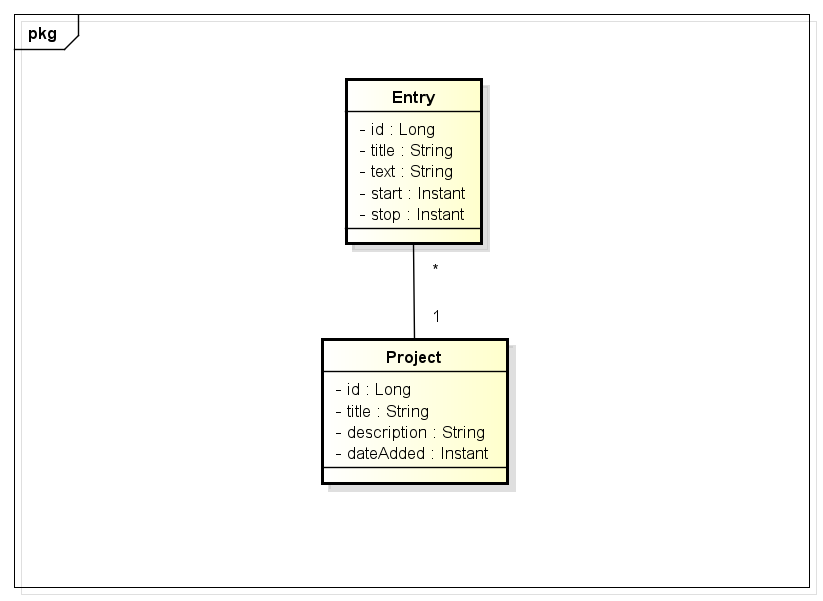
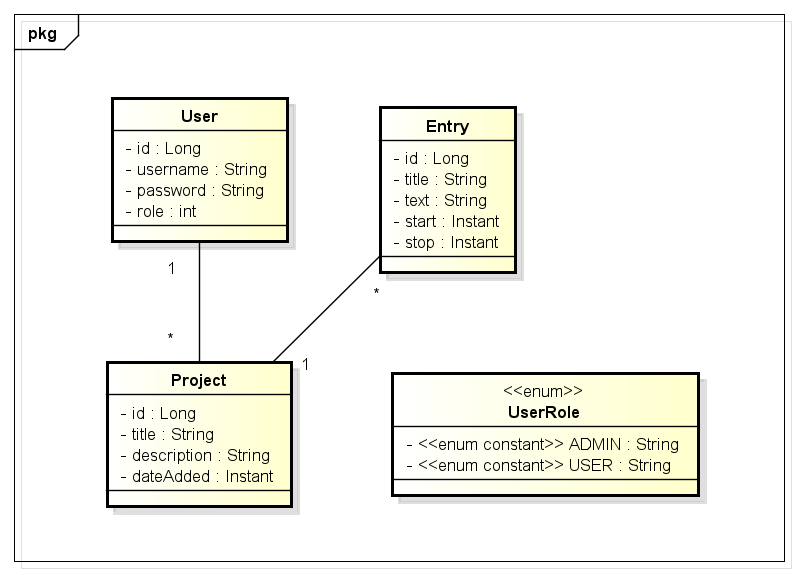
add User entitty, spring security & update class diagram

Changed region(s): [[0.1203, 0.1183, 0.9023, 0.9165], [0.0, 0.0, 0.9925, 0.0887], [0.0301, 0.9757, 0.9925, 1.0]]

diff --git a/src/main/java/com/romm/timemanagement/entities/User.java b/src/main/java/com/romm/timemanagement/entities/User.java
@@ -1,0 +1,70 @@
+package com.romm.timemanagement.entities;
+
+import java.util.Collection;
+import java.util.List;
+
+import org.springframework.security.core.GrantedAuthority;
+import org.springframework.security.core.authority.SimpleGrantedAuthority;
+import org.springframework.security.core.userdetails.UserDetails;
+
+import com.romm.timemanagement.enums.UserRole;
+
+import jakarta.persistence.Column;
+import jakarta.persistence.Entity;
+import jakarta.persistence.GeneratedValue;
+import jakarta.persistence.GenerationType;
+import jakarta.persistence.Id;
+import jakarta.persistence.Table;
+import lombok.AllArgsConstructor;
+import lombok.Getter;
+import lombok.NoArgsConstructor;
+import lombok.Setter;
+
+@Entity
+@Table(name="tb_user")
+@NoArgsConstructor @AllArgsConstructor @Getter @Setter
+public class User implements UserDetails {
+
+    @Id
+    @GeneratedValue(strategy = GenerationType.IDENTITY)
+    private Long id;
+
+    @Column(unique=true)
+    private String userName;
+
+    private String password;
+
+    private UserRole role;
+
+    @Override
+    public Collection<? extends GrantedAuthority> getAuthorities() {
+        if (this.role == UserRole.ADMIN) return List.of(new SimpleGrantedAuthority("ROLE_ADMIN"), new SimpleGrantedAuthority("ROLE_USER"));
+        else return List.of(new SimpleGrantedAuthority("ROLE_USER"));
+    }
+
+    @Override
+    public String getUsername() {
+        return userName;
+    }
+
+    @Override
+    public boolean isAccountNonExpired() {
+        return true;
+    }
+
+    @Override
+    public boolean isAccountNonLocked() {
+        return true;
+    }
+
+    @Override
+    public boolean isCredentialsNonExpired() {
+        return true;
+    }
+
+    @Override
+    public boolean isEnabled() {
+        return true;
+    }
+
+}

diff --git a/src/main/java/com/romm/timemanagement/entities/Project.java b/src/main/java/com/romm/timemanagement/entities/Project.java
@@ -6,6 +6,7 @@ import jakarta.persistence.Entity;
 import jakarta.persistence.GeneratedValue;
 import jakarta.persistence.GenerationType;
 import jakarta.persistence.Id;
+import jakarta.persistence.ManyToOne;
 import jakarta.persistence.Table;
 import lombok.AllArgsConstructor;
 import lombok.Getter;
@@ -23,5 +24,8 @@ public class Project {
     private String title;
     private String description;
     private Instant dateAdded;
+
+    @ManyToOne
+    private User owner;
 
 }

diff --git a/src/main/java/com/romm/timemanagement/repository/UserRepository.java b/src/main/java/com/romm/timemanagement/repository/UserRepository.java
@@ -1,0 +1,11 @@
+package com.romm.timemanagement.repository;
+
+import com.romm.timemanagement.entities.User;
+
+import org.springframework.data.jpa.repository.JpaRepository;
+import org.springframework.security.core.userdetails.UserDetails;
+
+public interface UserRepository extends JpaRepository<User, Long> {
+    
+    public UserDetails findByLogin(String userName);
+}

diff --git a/src/main/java/com/romm/timemanagement/enums/UserRole.java b/src/main/java/com/romm/timemanagement/enums/UserRole.java
@@ -1,0 +1,16 @@
+package com.romm.timemanagement.enums;
+
+public enum UserRole {
+    ADMIN("admin"),
+    USER("user");
+
+    private String role;
+
+    UserRole(String role)  {
+        this.role = role;
+    }
+
+    public String getRole(){
+        return role;
+    }
+}
